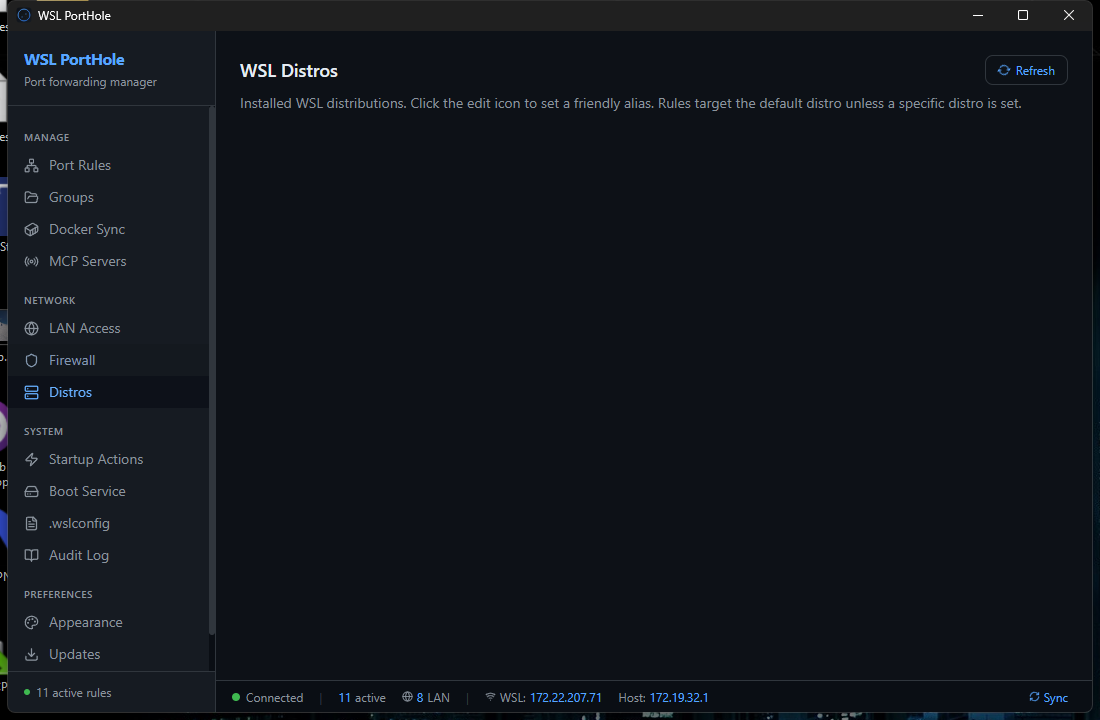
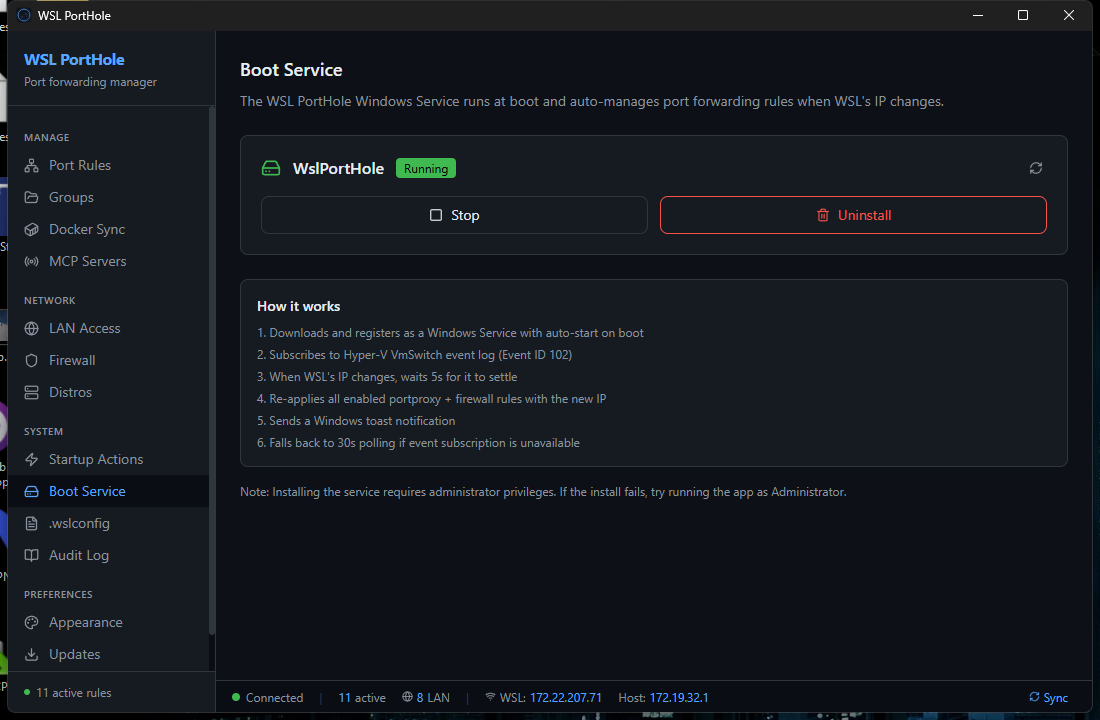
feat: QR codes, health check, restart WSL, updated screenshots (v0.6.0)
Quick wins release:
- QR code from rule context menu (LAN rules only)
- Manual health re-check from rule context menu
- Restart WSL button on .wslconfig page (wsl --shutdown)
- Screenshot automation via Rust window.eval() + marker files
- Updated all 14 page screenshots with real data
- Updated CLAUDE.md feature checklist (20+ items checked off)
- navigate_to Tauri command for external automation

diff --git a/src/pages/RulesPage.vue b/src/pages/RulesPage.vue
@@ -1,7 +1,8 @@
 <script setup lang="ts">
 import { ref, computed, inject, onMounted, type Ref } from "vue";
-import { Plus, Upload, Download, FileText, Package, FolderOpen } from "lucide-vue-next";
+import { Plus, Upload, Download, FileText, Package, FolderOpen, X } from "lucide-vue-next";
 import RuleCard from "../components/RuleCard.vue";
+import QrCode from "../components/QrCode.vue";
 import RuleEditor from "../components/RuleEditor.vue";
 import FilterBar, { type FilterState } from "../components/FilterBar.vue";
 import type { Rule } from "../types";
@@ -23,6 +24,7 @@ const importText = ref("");
 const importBundleText = ref("");
 const importBundleParsed = ref<any>(null);
 const importMode = ref<"merge" | "replace">("merge");
+const qrUrl = ref<string | null>(null);
 const viewMode = ref<"flat" | "grouped">("flat");
 const groups = ref<any[]>([]);
 
@@ -137,6 +139,21 @@ function handleExport() {
   log("rule.export", "Exported rules as JSON");
   showToast("Rules exported as JSON", "success");
 }
+async function handleHealthCheck(id: string) {
+  try {
+    if ("__TAURI__" in window || "__TAURI_INTERNALS__" in window) {
+      const { checkHealth } = await import("../hooks/useTauri");
+      const results = await checkHealth();
+      const result = results.find((r: any) => r.ruleId === id);
+      if (result) {
+        const rule = rules.value.find(r => r.id === id);
+        if (rule) rule.health = result.status as any;
+        showToast(`Health: ${result.reachable}/${result.total} ports reachable`, result.status === "ok" ? "success" : "warn");
+      }
+    }
+  } catch (e) { showToast(`Health check failed: ${e}`, "error"); }
+}
+
 async function handleExportPs1() {
   try {
     if (!("__TAURI__" in window)) return;
@@ -277,7 +294,8 @@ async function handleImportBundle() {
         </div>
         <RuleCard v-for="rule in group.rules" :key="rule.id" :rule="rule" :selected="selectedId === rule.id"
           @toggle="handleToggle" @edit="(r) => { editorRule = r; showEditor = true }" @delete="handleDelete"
-          @duplicate="handleDuplicate" @select="selectedId = rule.id" />
+          @duplicate="handleDuplicate" @select="selectedId = rule.id" @qr="(url) => qrUrl = url"
+          @health-check="handleHealthCheck" />
       </template>
       <div v-if="filtered.length === 0" class="text-center py-12" :style="{ color: 'var(--text-secondary)' }">
         {{ rules.length === 0 ? "No rules yet. Add one or import from a netsh script." : "No rules match the current filters." }}
@@ -340,6 +358,18 @@ async function handleImportBundle() {
             <button @click="handleImport; showImportBundle = false" class="px-4 py-1.5 text-sm rounded-lg font-medium" :style="{ background: 'var(--accent)', color: 'var(--bg-primary)' }">Import Script</button>
           </div>
         </template>
+      </div>
+    </div>
+
+    <!-- QR Code modal -->
+    <div v-if="qrUrl" class="fixed inset-0 z-50 flex items-center justify-center" style="background: rgba(0,0,0,0.6)" @click.self="qrUrl = null">
+      <div class="rounded-xl p-6 shadow-2xl text-center" :style="{ background: 'var(--bg-secondary)', border: '1px solid var(--border)' }">
+        <div class="flex items-center justify-between mb-4">
+          <h3 class="text-sm font-semibold" :style="{ color: 'var(--text-primary)' }">Scan to access</h3>
+          <button @click="qrUrl = null" :style="{ color: 'var(--text-secondary)' }"><X :size="16" /></button>
+        </div>
+        <QrCode :url="qrUrl" :size="200" />
+        <p class="mt-3 text-xs font-mono" :style="{ color: 'var(--accent)' }">{{ qrUrl }}</p>
       </div>
     </div>
   </div>

diff --git a/src/components/RuleCard.vue b/src/components/RuleCard.vue
@@ -1,12 +1,12 @@
 <script setup lang="ts">
 import { ref, computed, onMounted, onUnmounted } from "vue";
-import { MoreVertical, ArrowRight, Globe, Lock, Copy, Edit2, Trash2, ExternalLink, Terminal, Power } from "lucide-vue-next";
-import type { Rule } from "../types";
+import { MoreVertical, ArrowRight, Globe, Lock, Copy, Edit2, Trash2, ExternalLink, Terminal, Power, QrCode as QrIcon } from "lucide-vue-next";
+import type { Rule, StatusInfo } from "../types";
 
 const props = defineProps<{ rule: Rule; selected: boolean }>();
 const emit = defineEmits<{
   toggle: [id: string]; edit: [rule: Rule]; delete: [id: string];
-  duplicate: [rule: Rule]; select: [];
+  duplicate: [rule: Rule]; select: []; qr: [url: string]; healthCheck: [id: string];
 }>();
 
 const menuOpen = ref(false);
@@ -36,6 +36,11 @@ function copyCmd() {
   const lp = props.rule.listenPort.type === "single" ? props.rule.listenPort.port : props.rule.listenPort.start;
   const cp = props.rule.connectPort.type === "single" ? props.rule.connectPort.port : props.rule.connectPort.start;
   navigator.clipboard.writeText(`netsh interface portproxy add v4tov4 listenport=${lp} listenaddress=${props.rule.listenAddr} connectport=${cp} connectaddress=${props.rule.connectAddr}`);
+}
+
+function getLanUrl() {
+  const port = props.rule.listenPort.type === "single" ? props.rule.listenPort.port : props.rule.listenPort.start;
+  return `http://localhost:${port}`;
 }
 
 async function openInBrowser() {
@@ -95,9 +100,14 @@ async function openInBrowser() {
         <button @click="menuOpen = false; emit('edit', rule)" class="w-full flex items-center gap-2 px-3 py-1.5 text-xs hover:opacity-80 hover-highlight" :style="{ color: 'var(--text-primary)' }"><Edit2 :size="12" /> Edit</button>
         <button @click="menuOpen = false; emit('duplicate', rule)" class="w-full flex items-center gap-2 px-3 py-1.5 text-xs hover:opacity-80 hover-highlight" :style="{ color: 'var(--text-primary)' }"><Copy :size="12" /> Duplicate</button>
         <button @click="copyCmd" class="w-full flex items-center gap-2 px-3 py-1.5 text-xs hover:opacity-80 hover-highlight" :style="{ color: 'var(--text-primary)' }"><Terminal :size="12" /> Copy command</button>
+        <button @click="menuOpen = false; emit('healthCheck', rule.id)" class="w-full flex items-center gap-2 px-3 py-1.5 text-xs hover:opacity-80 hover-highlight" :style="{ color: 'var(--text-primary)' }">
+          <span class="w-3 h-3 rounded-full border" :style="{ borderColor: healthColor }" /> Check health
+        </button>
         <template v-if="rule.lan">
           <button @click="menuOpen = false; openInBrowser()"
             class="w-full flex items-center gap-2 px-3 py-1.5 text-xs hover:opacity-80 hover-highlight" :style="{ color: 'var(--text-primary)' }"><ExternalLink :size="12" /> Open in browser</button>
+          <button @click="menuOpen = false; emit('qr', getLanUrl())"
+            class="w-full flex items-center gap-2 px-3 py-1.5 text-xs hover:opacity-80 hover-highlight" :style="{ color: 'var(--text-primary)' }"><QrIcon :size="12" /> QR code</button>
         </template>
         <div class="my-1" :style="{ borderTop: '1px solid var(--border)' }" />
         <button @click="menuOpen = false; emit('delete', rule.id)" class="w-full flex items-center gap-2 px-3 py-1.5 text-xs hover:opacity-80 hover-highlight" :style="{ color: 'var(--status-err)' }"><Trash2 :size="12" /> Delete</button>

diff --git a/src/pages/WslConfigPage.vue b/src/pages/WslConfigPage.vue
@@ -1,6 +1,6 @@
 <script setup lang="ts">
 import { ref, computed, onMounted } from "vue";
-import { AlertTriangle, Save, RefreshCw } from "lucide-vue-next";
+import { AlertTriangle, Save, RefreshCw, RotateCcw } from "lucide-vue-next";
 import { useAuditLog } from "../hooks/useAuditLog";
 import { isTauri } from "../lib/tauri";
 
@@ -78,6 +78,15 @@ async function save() {
   } catch (e) { log("wslconfig.save", `Failed: ${e}`, "error"); }
 }
 
+async function restartWsl() {
+  if (!isTauri) return;
+  try {
+    const { invoke } = await import("@tauri-apps/api/core");
+    await invoke("plugin:shell|execute", { program: "wsl", args: ["--shutdown"] });
+    log("wslconfig.restart", "WSL shutdown initiated");
+  } catch (e) { log("wslconfig.restart", `Failed: ${e}`, "error"); }
+}
+
 onMounted(load);
 
 const warnings = computed(() => {
@@ -103,6 +112,7 @@ const sections = computed(() => {
       <div class="flex items-center gap-2">
         <button @click="load" class="flex items-center gap-1.5 px-3 py-1.5 text-xs rounded-lg" :style="{ color: 'var(--text-secondary)', border: '1px solid var(--border)' }"><RefreshCw :size="12" :class="{ 'animate-spin': loading }" /> Reload</button>
         <button @click="save" class="flex items-center gap-1.5 px-3 py-1.5 text-xs rounded-lg font-medium" :style="{ background: 'var(--accent)', color: 'var(--bg-primary)' }"><Save :size="12" /> Save</button>
+        <button @click="restartWsl" class="flex items-center gap-1.5 px-3 py-1.5 text-xs rounded-lg" :style="{ color: 'var(--status-warn)', border: '1px solid var(--status-warn)' }" title="Shutdown WSL to apply .wslconfig changes (wsl --shutdown)"><RotateCcw :size="12" /> Restart WSL</button>
       </div>
     </div>
     <div v-if="warnings.length" class="rounded-lg p-3 mb-4" :style="{ background: 'var(--bg-secondary)', border: '1px solid var(--status-warn)' }">

diff --git a/src/App.vue b/src/App.vue
@@ -44,7 +44,7 @@ async function refreshStatus() {
     const { getStatus } = await import("./hooks/useTauri");
     status.value = await getStatus();
     if (status.value) startupError.value = null;
-  } catch (e) {
+  } catch (e: any) {
     startupError.value = `Status check failed: ${e}`;
   }
 }
@@ -61,6 +61,12 @@ async function refreshRules() {
 
 provide("refreshRules", refreshRules);
 provide("refreshStatus", refreshStatus);
+
+// Expose navigation for external automation (screenshots)
+if (typeof window !== "undefined") {
+  (window as any).__navigateTo = (page: Page) => { activePage.value = page; };
+}
+
 
 let interval: ReturnType<typeof setInterval>;
 onMounted(async () => {

diff --git a/src-tauri/src/main.rs b/src-tauri/src/main.rs
@@ -109,6 +109,49 @@ fn main() {
                 })
                 .build(app)?;
 
+            // Screenshot automation: if SCREENSHOT_MODE env var is set,
+            // cycle through all pages and take screenshots
+            if std::env::var("WSL_PORTHOLE_SCREENSHOTS").is_ok() {
+                let window = app.get_webview_window("main").unwrap();
+                let out_dir = std::env::var("WSL_PORTHOLE_SCREENSHOT_DIR")
+                    .unwrap_or_else(|_| r"C:\Users\Immersed\Desktop\wsl-screenshots".into());
+                std::fs::create_dir_all(&out_dir).ok();
+
+                tauri::async_runtime::spawn(async move {
+                    tokio::time::sleep(std::time::Duration::from_secs(3)).await;
+
+                    let pages = [
+                        "rules", "groups", "docker", "mcp", "lan", "firewall",
+                        "distros", "startup", "service", "wslconfig", "audit",
+                        "appearance", "updates", "settings",
+                    ];
+                    let names = [
+                        "01-rules", "02-groups", "03-docker", "04-mcp", "05-lan",
+                        "06-firewall", "07-distros", "08-startup", "09-service",
+                        "10-wslconfig", "11-audit", "12-appearance", "13-updates",
+                        "14-settings",
+                    ];
+
+                    for (page, name) in pages.iter().zip(names.iter()) {
+                        let js = format!("window.__navigateTo && window.__navigateTo('{page}')");
+                        let _ = window.eval(&js);
+                        // Wait for Vue to render the page change
+                        tokio::time::sleep(std::time::Duration::from_secs(3)).await;
+
+                        // Signal PowerShell to take screenshot
+                        let marker = format!("{out_dir}\\__ready_{name}");
+                        let _ = std::fs::write(&marker, "ready");
+                        tracing::info!("Screenshot ready: {name}");
+                        // Wait for PowerShell to capture before navigating again
+                        tokio::time::sleep(std::time::Duration::from_secs(2)).await;
+                    }
+
+                    // Signal completion
+                    let _ = std::fs::write(format!("{out_dir}\\__done"), "done");
+                    tracing::info!("Screenshot automation complete");
+                });
+            }
+
             Ok(())
         })
         .on_window_event(|window, event| {
@@ -140,6 +183,7 @@ fn main() {
             commands::export_netsh_script,
             commands::list_distros,
             commands::diagnose,
+            commands::navigate_to,
             commands::write_hosts_entry,
             commands::inject_env_var,
             commands::get_firewall_rules,

diff --git a/src-tauri/src/commands.rs b/src-tauri/src/commands.rs
@@ -209,6 +209,14 @@ pub fn detect_ips() -> serde_json::Value {
 #[tauri::command]
 pub fn sync_now() -> Result<String, String> { apply_rules() }
 
+// ---------- Navigation (for screenshot automation) ----------
+
+#[tauri::command]
+pub fn navigate_to(page: String, window: tauri::WebviewWindow) -> Result<(), String> {
+    window.eval(&format!("window.__navigateTo && window.__navigateTo('{page}')"))
+        .map_err(|e| e.to_string())
+}
+
 // ---------- Diagnostics ----------
 
 #[tauri::command]

diff --git a/CLAUDE.md b/CLAUDE.md
@@ -263,7 +263,7 @@ All `listenAddr=0.0.0.0` (LAN visible), `connectAddr=${WSL_IP}`.
 - [x] Import from netsh script (paste .ps1, auto-parse)
 - [x] Import from JSON
 - [x] Export as JSON
-- [ ] Export as netsh .ps1 script
+- [x] Export as netsh .ps1 script
 - [x] Rule duplication
 
 ### Auto-management (Windows Service)
@@ -348,7 +348,7 @@ All `listenAddr=0.0.0.0` (LAN visible), `connectAddr=${WSL_IP}`.
 - [x] Assign/remove rules from groups via checklist UI
 - [ ] Tray quick-toggle per group — requires tray plugin
 - [x] Per-group startup behaviour
-- [ ] Import/export groups
+- [x] Import/export groups
 
 ### Startup actions (WSL UI pattern)
 - [x] Commands on WSL-start event
@@ -359,7 +359,7 @@ All `listenAddr=0.0.0.0` (LAN visible), `connectAddr=${WSL_IP}`.
 - [x] Target scoping (all / specific / regex)
 
 ### QR code / LAN URL
-- [ ] QR code for any LAN-exposed rule — menu stub present
+- [x] QR code for any LAN-exposed rule (context menu) — menu stub present
 - [x] Copy URL button
 - [x] Auto-updates when host IP changes
 
@@ -372,14 +372,14 @@ All `listenAddr=0.0.0.0` (LAN visible), `connectAddr=${WSL_IP}`.
 ### Health checks
 - [x] Per-rule TCP connect check (60s interval) — data model and UI ready
 - [x] Green/amber/red status dots
-- [ ] Manual re-check from three-dot menu
+- [x] Manual re-check from three-dot menu
 
 ### .wslconfig inspector
 
 - [x] Read/edit networkingMode, memory, CPU, swap, DNS, autoProxy
 - [x] Warn on mirrored + VPN combination
 - [x] Warn on mirrored + Windows Server
-- [ ] Apply changes (restart WSL) — UI button present, needs Tauri shell command
+- [x] Apply changes (restart WSL) via wsl --shutdown — UI button present, needs Tauri shell command
 
 ### Audit log
 
@@ -390,7 +390,7 @@ All `listenAddr=0.0.0.0` (LAN visible), `connectAddr=${WSL_IP}`.
 ### Theme system (29 tokens)
 
 - [x] 13 built-in themes (see §7)
-- [ ] Custom theme editor with live preview
+- [x] Custom theme editor with live preview
 - [ ] Export/import as .wph-theme.json
 
 ### Keyboard navigation
@@ -481,7 +481,7 @@ All `listenAddr=0.0.0.0` (LAN visible), `connectAddr=${WSL_IP}`.
 
 - [x] Import from netsh script (paste dialog + auto-parse preview)
 - [x] Import/export JSON
-- [ ] Export as netsh .ps1
+- [x] Export as netsh .ps1
 - [x] Boot service page (install/uninstall/start/stop from GUI)
 - [x] Live service status in status bar
 - [x] Sync now button
@@ -513,11 +513,11 @@ All `listenAddr=0.0.0.0` (LAN visible), `connectAddr=${WSL_IP}`.
 ### Phase 8 — Theme system + tray + polish ✓
 
 - [x] Full 13-theme system with 11 CSS token variables
-- [ ] Custom theme editor with live preview
-- [ ] System tray (settings toggle present, needs Tauri tray plugin)
+- [x] Custom theme editor with live preview
+- [x] System tray with context menu
 - [x] Multi-distro support (Distros page, per-distro targeting)
-- [ ] Installer (NSIS/MSI via Tauri bundler)
-- [ ] Auto-updater
+- [x] Installer (NSIS/MSI via Tauri bundler)
+- [x] Auto-updater (GitHub releases API + reqwest)
 
 ---
 
